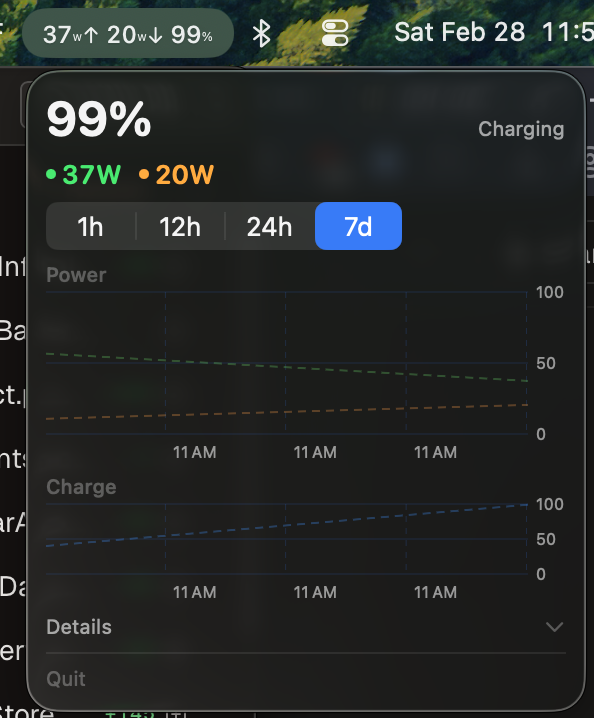
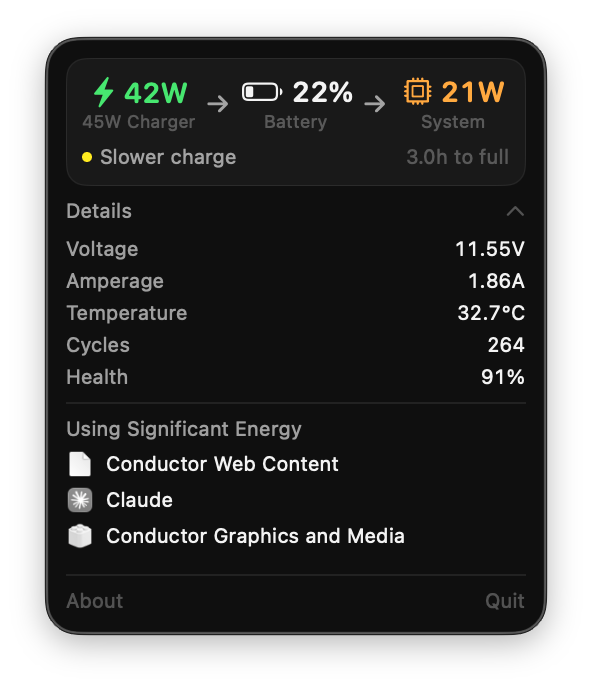
Update screenshots and README for new detail panel design
Replace old screenshot with current charging diagnostics view. Add
menu bar screenshot. Update feature list to reflect charging
diagnostics, energy hog detection, and auto-update.

diff --git a/README.md b/README.md
@@ -2,15 +2,17 @@
 
 A lightweight macOS menu bar app that shows battery charge wattage, system consumption, and state of charge at a glance.
 
-![BatteryBar screenshot](screenshot.png)
+![BatteryBar detail panel](screenshot.png)
+
+![BatteryBar menu bar](screenshot-menubar.png)
 
 ## Features
 
 - **Live wattage display** in the menu bar: charge power (in), system consumption (out), and battery %
+- **Charging diagnostics** — detects slow chargers, cable issues, thermal throttling, and trickle charging near full
 - **Detail panel** with voltage, amperage, temperature, cycle count, health, and time remaining
-- **Power and SOC graphs** with 1h / 12h / 24h / 7d timeframe selector
-- **7-day history** with automatic downsampling and persistence across restarts
-- **Peak-preserving smoothing** — graphs stay readable without hiding spikes
+- **Energy hog detection** — shows apps using significant energy
+- **Automatic update checking** via GitHub releases
 - **Sleep/wake aware** — pauses polling during sleep, shows gaps in graphs
 - **Retina-ready** menu bar rendering
 - **Zero dependencies** — pure Swift + SwiftUI + IOKit, no third-party packages
